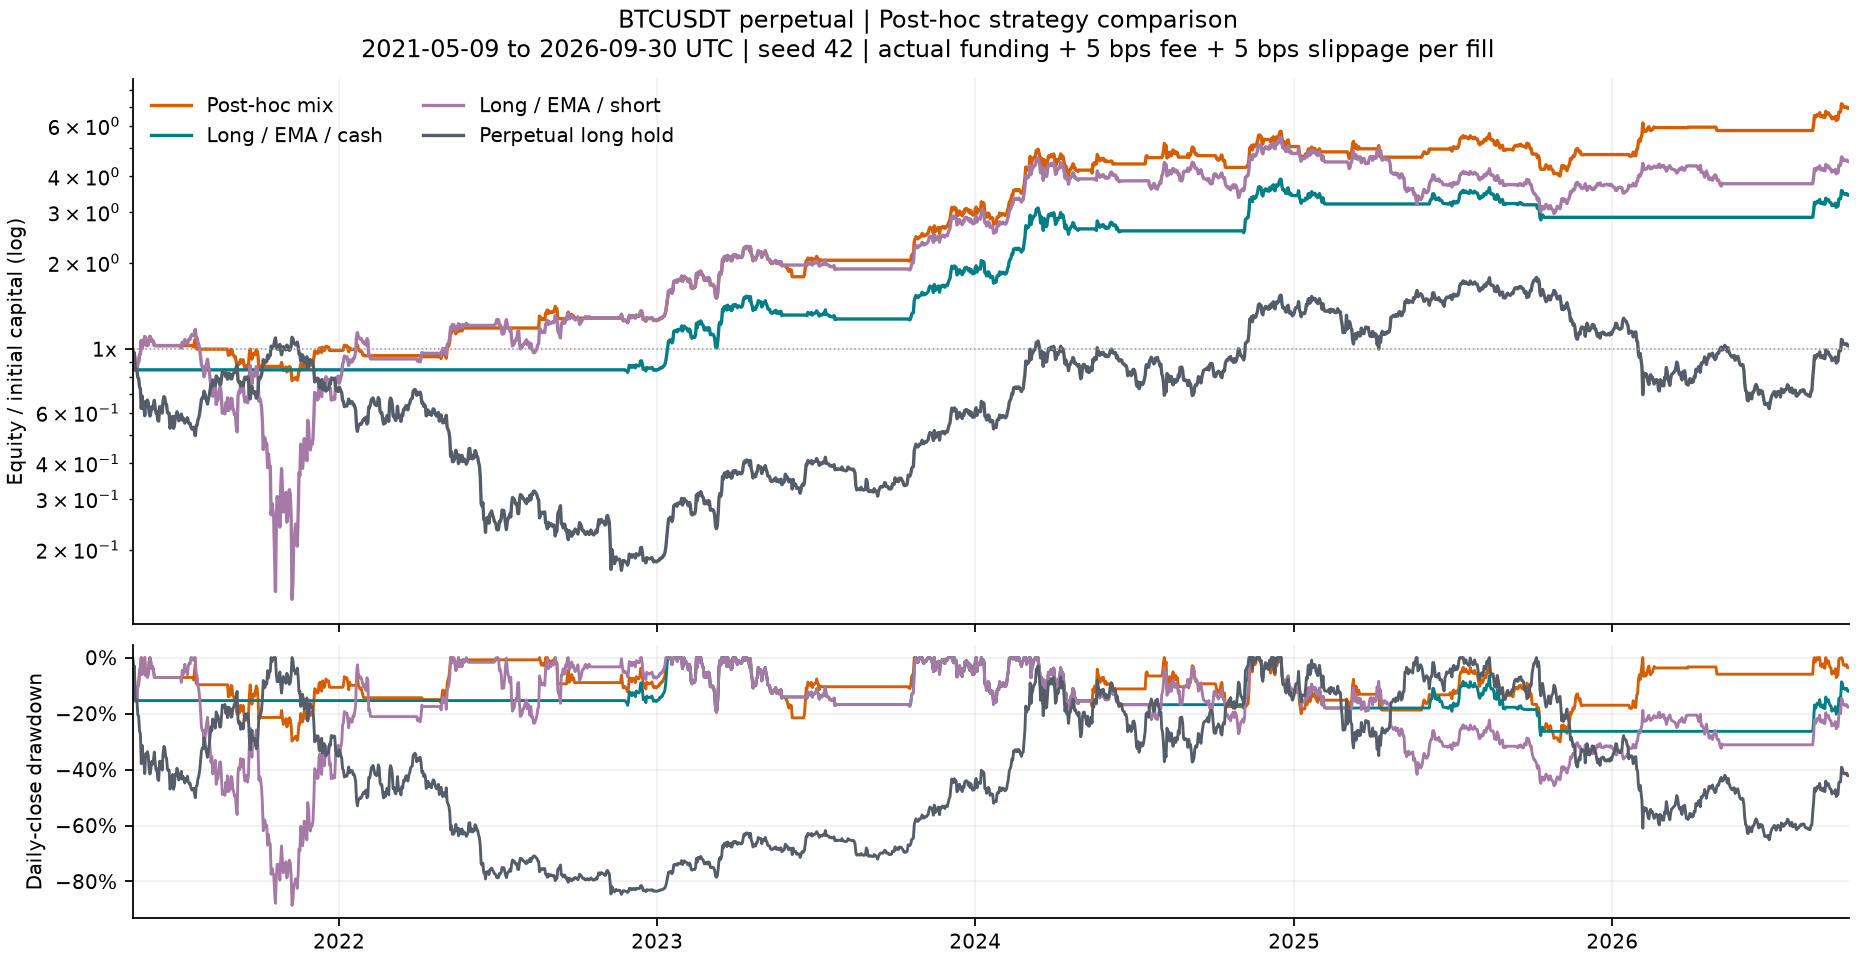
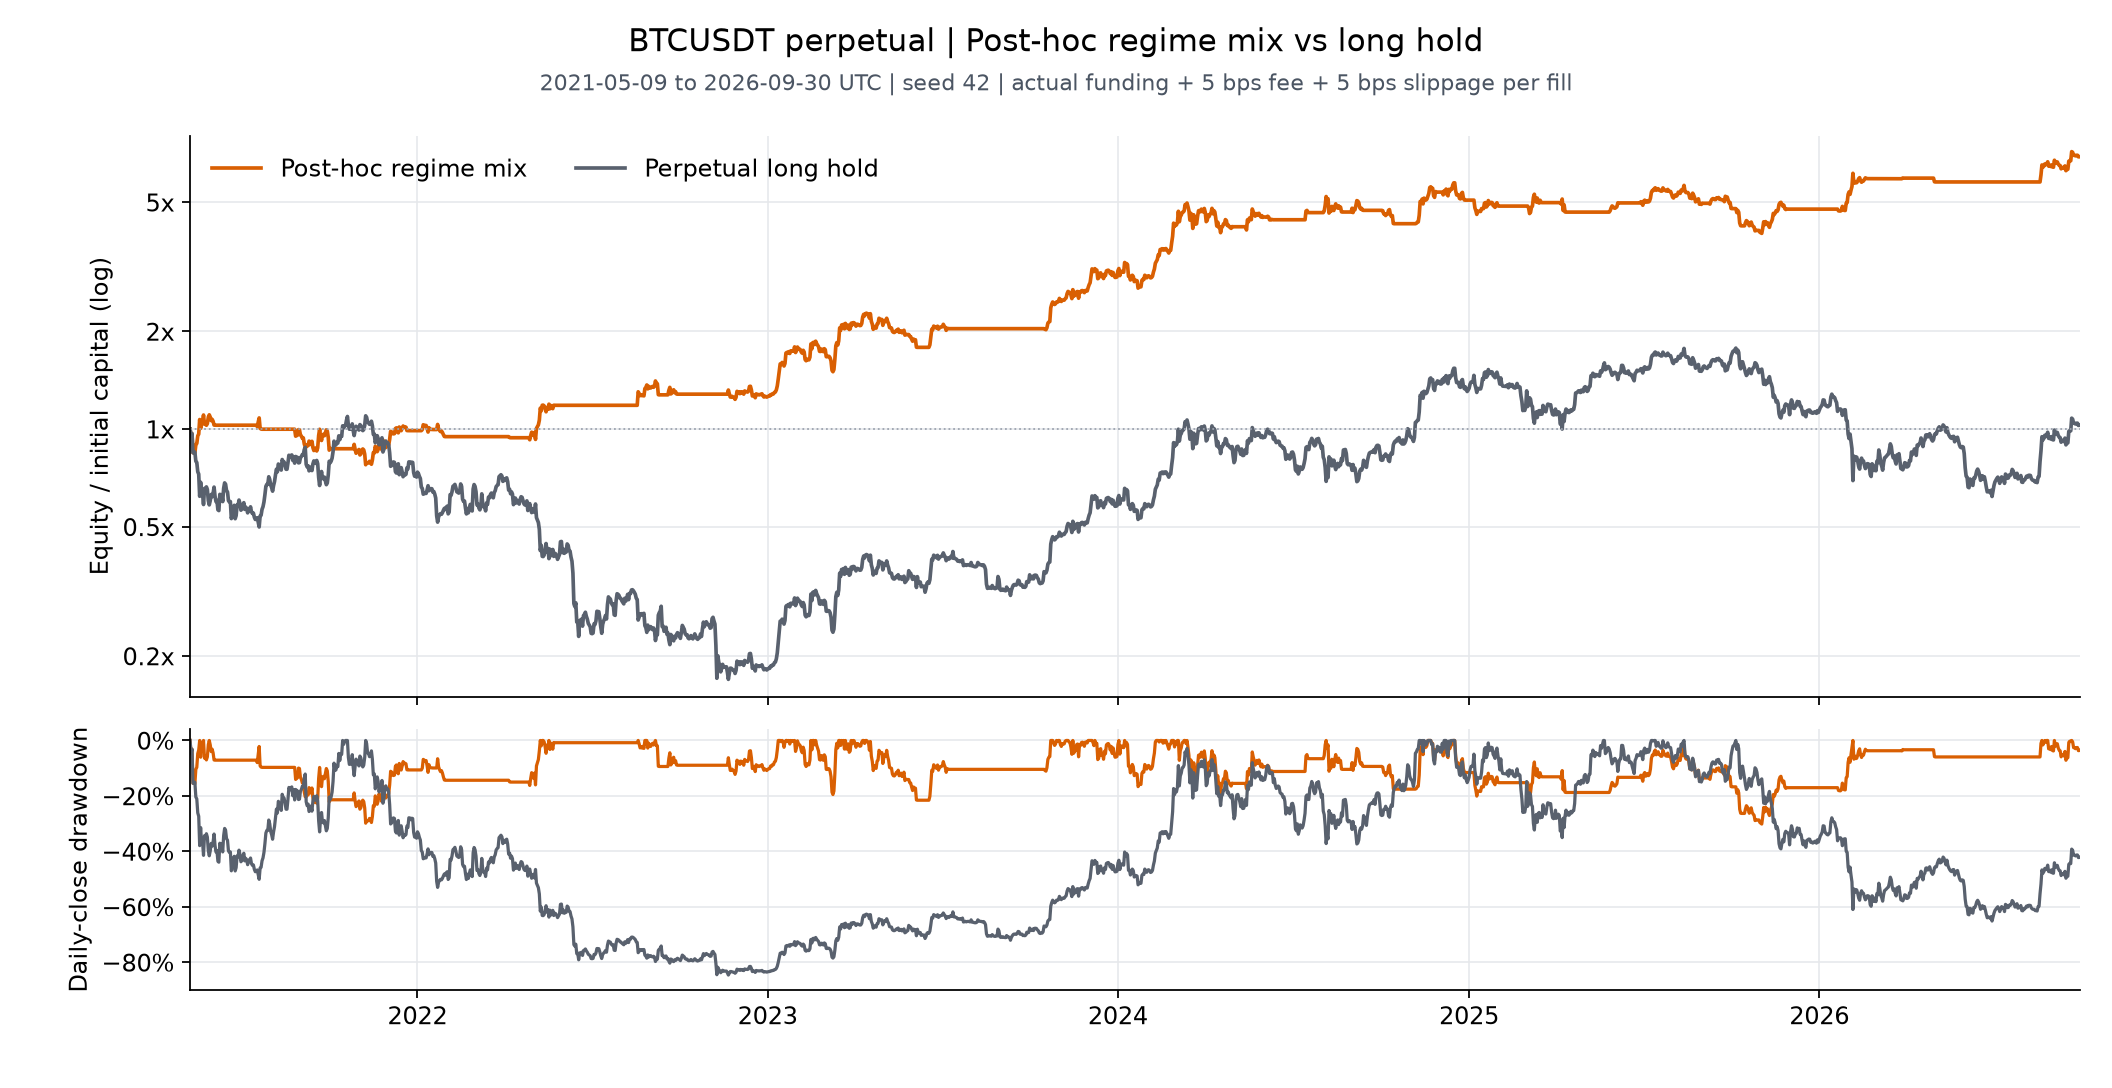
Simplify BTC figure to regime mix and long hold

diff --git a/research/bitcoin-auto-trade/results/README.md b/research/bitcoin-auto-trade/results/README.md
@@ -6,7 +6,7 @@
 
 ![BTC 국면별 사후 조합과 기준선의 자산 및 낙폭](images/btc_strategy_comparison.png)
 
-2021-05-09~2026-09-30, seed 42의 비교임. 실제 펀딩과 체결당 수수료 및 슬리피지 각각 0.05%를 반영함. 자산은 초기자금 대비 배수의 로그축, 낙폭은 종가 고점 기준임. 보유 기준선도 무기한선물 롱임.
+2021-05-09~2026-09-30의 비교임. 주황은 국면별 사후 조합(seed 42), 회색은 무기한선물 롱 보유임. 위는 초기자금 대비 자산 배수의 로그축, 아래는 종가 고점 대비 낙폭임. 실제 펀딩과 체결당 수수료 및 슬리피지 각각 0.05%를 반영함.
 
 ## 다른 코인 적용
 
